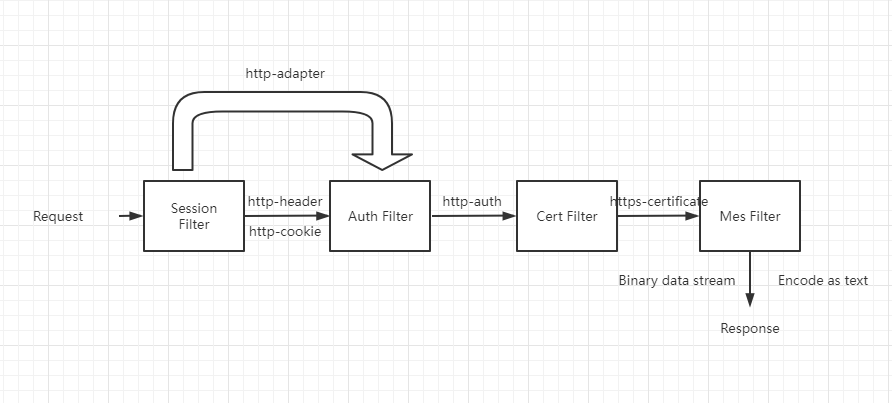
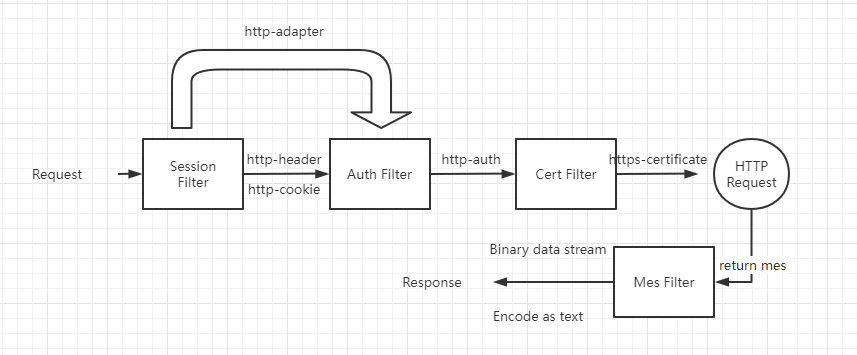
final update

diff --git a/README.md b/README.md
@@ -184,6 +184,14 @@ Requests divide the standard part into Models Module, Structure Module, Status_C
 
 ![modification.png](./images/ModiTactics.png)
 
+* ***Why do we use those standards?***
+
+  In the development collaboration of the requests project, it is mainly to implement the extension of the parameters and methods in the request and response objects. A public model module records these two objects for the convenience of developer collaboration, and the types and formats of different data used by requests as network sending packets, such as whether they are stored in dictionaries, which also need to be synchronized between different personnel. Model and DataStructure standards are required. Requests is a library for sending http requests. Whether the web page responds normally is the focus of attention, and the specification of the web page status code is also required. 
+
+* ***Why do we split the process into cookies, sessions, auth module?***
+
+  The Request object is the same as the request object in the HTTP protocol. It matches the HTTP protocol by building properties. To comply with the http specification, you need to process the session(use to build a keep-alive connection), cookie, and authentication for the request object.
+
 ## Earliest Design Decisions
 
 ![lead.jpg](./images/3.jpg)
@@ -199,6 +207,102 @@ Requests divide the standard part into Models Module, Structure Module, Status_C
 
 ### Pipe & Filter Pattern
 
-Each stage will process the request. If the request passes, it will be passed to the next processing, and if it fails, the corresponding HTTP response will be returned. When creating a Request object, the session will be initialized, the default http header and http cookie information will be created, and the HTTPAdpater object will be created. After that, http verification and https certificate processing will be performed in the Auth model and Cert model, respectively. The request object will be added with the corresponding verification results, and finally the Response object will be formed. Binary data and the corresponding encoded text will be reserved respectively.
+Each stage will process the request. If the request passes, it will be passed to the next processing, and if it fails, the corresponding HTTP response will be returned. When creating a Request object, the session will be initialized, the default http header and http cookie information will be created, and the HTTPAdpater(use to define and maintain connection) object will be created. After that, http verification and https certificate processing will be performed in the Auth model and Cert model, respectively. The request object will be added with the corresponding verification results, and finally the Response object will be formed. Binary data and the corresponding encoded text will be reserved respectively.
+
+* **Sesson Filter**: Read the request object, attach the default header and cookie parameters, form an http adapter, and then enter the next pipeline.
+
+* **Auth Filter**: Read the request object with the header and cookie parameters, if the auth parameter is None, method will be called_ netrc_ The netrc file in the default user directory of the auth method. If the URL address accessed in the req object can match, a tuple required for auth authentication will be returned and add to the request object.
+
+* **Cert Filter**: If the request object has the tuple required for auth authentication, the filter will verify the certificate, only the certificate is valid then the request object will be like a HTTP request which can be sent to web pages.
+
+  
+
+  ***That's to say that a request forms an http request after layers of authentication and packaging.***
+
+  
+
+* **Mes Filter**: Read the data return after sending http request to the web pages, convert it into binary data stream and text that can be read.
 
 ![pipe.png](./images/pipe.png)
+
+
+
+## Architecture Evaluation
+
+### Utility Tree
+
+![utility.png](./images/utility.png)
+
+### Architecture Approach
+
+<table>
+  	<tr>
+		<td>Scenario</td>
+		<td colspan='4'>Minimize impact of slow-down when continuing calling api</td>
+	<tr>
+	<tr>
+		<td>Q-Attribute</td>
+        <td colspan='4'>Usability</td>
+	<tr>
+	<tr>
+		<td>Environment</td>
+		<td colspan='4'>Session System</td>
+	</tr>
+	<tr>
+        <td>Stimulus</td>
+		<td colspan='4'>Users continuing calling the same connection type of api</td>
+	</tr>
+	<tr>
+		<td>Response</td>
+        <td colspan='4'>Api response takes less than 1 second</td>
+	</tr>
+    <tr>
+        <td>Architectural Decisions</td>
+        <td>Sensitivity</td>
+        <td>TradeOff</td>
+        <td>Risk</td>
+        <td>Non-Risk</td>
+    </tr>
+    <tr>
+        <td>Cookie Persistence</td>
+        <td>S1</td>
+        <td>TO1</td>
+        <td>R1</td>
+        <td></td>
+    </tr>
+    <tr>
+        <td>Data no Routing</td>
+        <td></td>
+        <td>TO2</td>
+        <td>R2</td>
+        <td></td>
+    </tr>
+    <tr>
+        <td>Reasoning</td>
+        <td colspan='4'>Maximize the use of old data</td>
+    </tr>
+    <tr>
+        <td>Architecture Diagram</td>
+        <td colspan='4'>Session helper diagram</td>
+    </tr>
+</table>
+
+**Note**:
+
+* S1: Cookie persistence is useful, but requires the restoration and usage of cookies data of web pages.
+* TO1: Less connection time versus data memory.
+* R1: Requests banned by the web pages.
+* TO2: Data utilization versus Databuffer size.
+* R2: Data path fails.
+
+**Reasoning**:
+
+* Avoid re-launching requests to web pages.
+* Some request contents, such as the request header, are data obtained in other processes before processing.
+* The return speed of calling the api is limited by the return speed of the request.
+
+**Diagram**:
+
+* Session module keep the data of cookies and other important info of a request based on a session(however, data-no-routing is common in other module of requests). Using the Session object allows you to keep parameters across requests. Network requests sent in the same Session instance can keep cookies. TCP requests from the same host will be reused, which will improve performance which improve the speed of request-response transaction.
+
+  ![usability.png](./images/UsaTactics.png)
